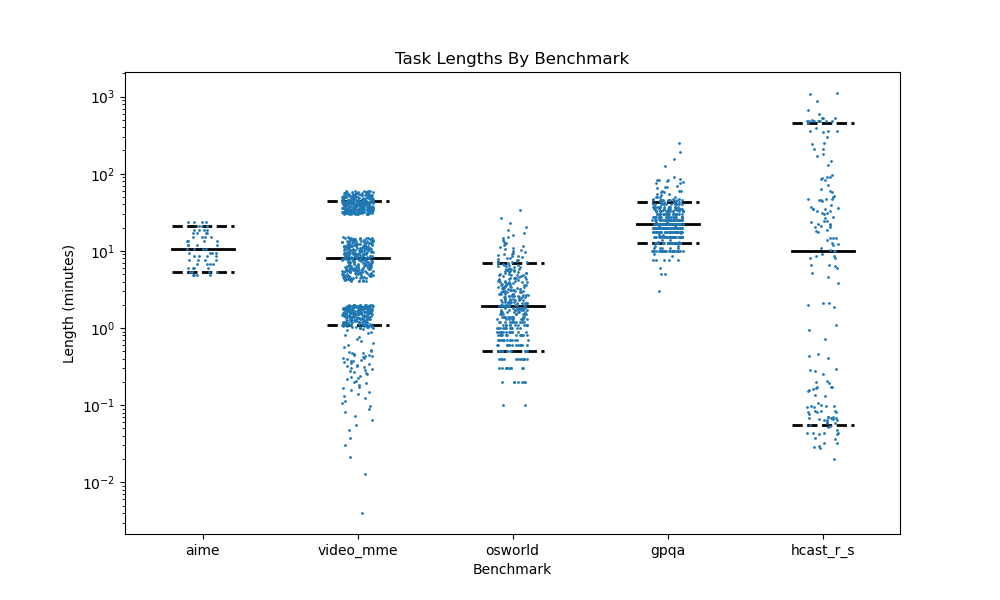
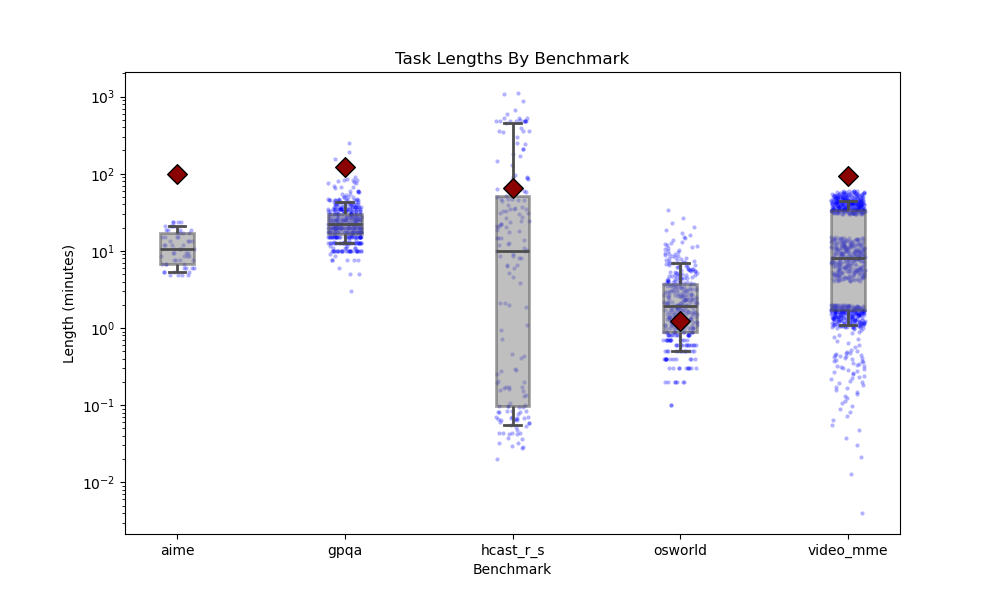
task length plot revisions

diff --git a/plots.py b/plots.py
@@ -8,6 +8,7 @@ import adjustText # Import adjustText
 import matplotlib.ticker as mticker # Import ticker
 import matplotlib.dates as mdates # Add date formatting import
 import toml
+import pathlib
 
 import wrangle
 
@@ -239,7 +240,11 @@ def plot_lines_over_time(df, output_file,
     plt.close(fig)
 
 
-def plot_benchmarks(benchmarks_path, output_file):
+def plot_benchmarks(df: pd.DataFrame, benchmarks_path: pathlib.Path, output_file: pathlib.Path):
+    """
+    df is a dataframe holding horizon data for all models on all benchmarks.
+    """
+
     def get_benchmark_data(benchmarks_path) -> dict[str, list[float]]:
         """
         Loads benchmark data from a folder of TOML files, reads the "lengths" key from each file, and returns a dictionary of benchmark name to list of lengths.
@@ -261,21 +266,21 @@ def plot_benchmarks(benchmarks_path, output_file):
     ])
 
     benchmarks = lengths_df['benchmark'].unique().tolist()
+    lengths_df.sort_values(by='benchmark', inplace=True)
 
-    
     plt.figure(figsize=(10, 6))
-    sns.stripplot(data=lengths_df, y='length', x='benchmark', size=2)
-    # Horizontal lines for 10th and 90th percentiles on each benchmark
-    y_min = lengths_df.groupby('benchmark')['length'].quantile(0.1)
-    y_median = lengths_df.groupby('benchmark')['length'].quantile(0.5)
-    y_max = lengths_df.groupby('benchmark')['length'].quantile(0.9)
+    sns.boxplot(data=lengths_df, y='length', x='benchmark', whis=(10, 90),
+                showfliers=False, width=0.2, fill=True, color='grey', zorder=2, linewidth=2, boxprops=dict(alpha=0.5))
+    sns.stripplot(data=lengths_df, y='length', x='benchmark', size=3, color='blue', zorder=1, alpha=0.3)
 
-    for benchmark, (min_val, median_val, max_val) in zip(y_min.index, zip(y_min, y_median, y_max)):
-        benchmark_index = benchmarks.index(benchmark)
-        xmin, xmax = (benchmark_index + 0.3) / len(benchmarks), (benchmark_index + 0.7) / len(benchmarks)
-        plt.axhline(min_val, color='black', xmin=xmin, xmax=xmax, linestyle='--', linewidth=2)
-        plt.axhline(median_val, color='black', xmin=xmin, xmax=xmax, linestyle='-', linewidth=2)
-        plt.axhline(max_val, color='black', xmin=xmin, xmax=xmax, linestyle='--', linewidth=2)
+    # plot a diamond for the frontier (max horizon) model on each benchmark
+    s_frontier = df.groupby('benchmark', as_index=True)["horizon"].max()
+    s_frontier /= 60 # Convert to minutes
+
+    s_frontier = s_frontier[s_frontier.index.isin(benchmarks)]
+    
+    for benchmark, horizon in s_frontier.items():
+        plt.scatter(benchmark, horizon, color='darkred', edgecolor='black', marker='D', s=100, zorder=3)
 
 
     plt.yscale('log')
@@ -320,7 +325,7 @@ def main():
 
 
     # --- Benchmark Task Lengths Plot ---
-    plot_benchmarks(BENCHMARKS_PATH, BENCHMARK_TASK_LENGTHS_OUTPUT_FILE)
+    plot_benchmarks(all_df, BENCHMARKS_PATH, BENCHMARK_TASK_LENGTHS_OUTPUT_FILE)
 
 if __name__ == "__main__":
     main()
